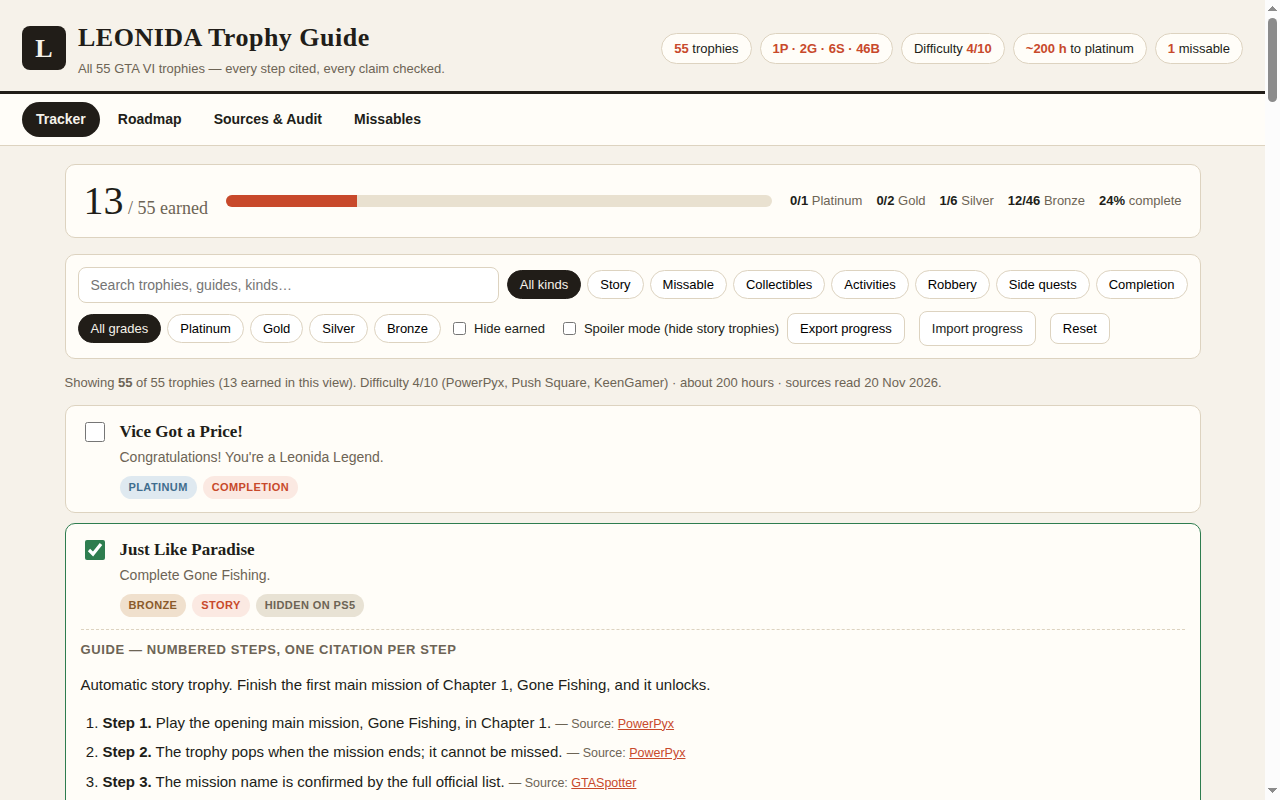
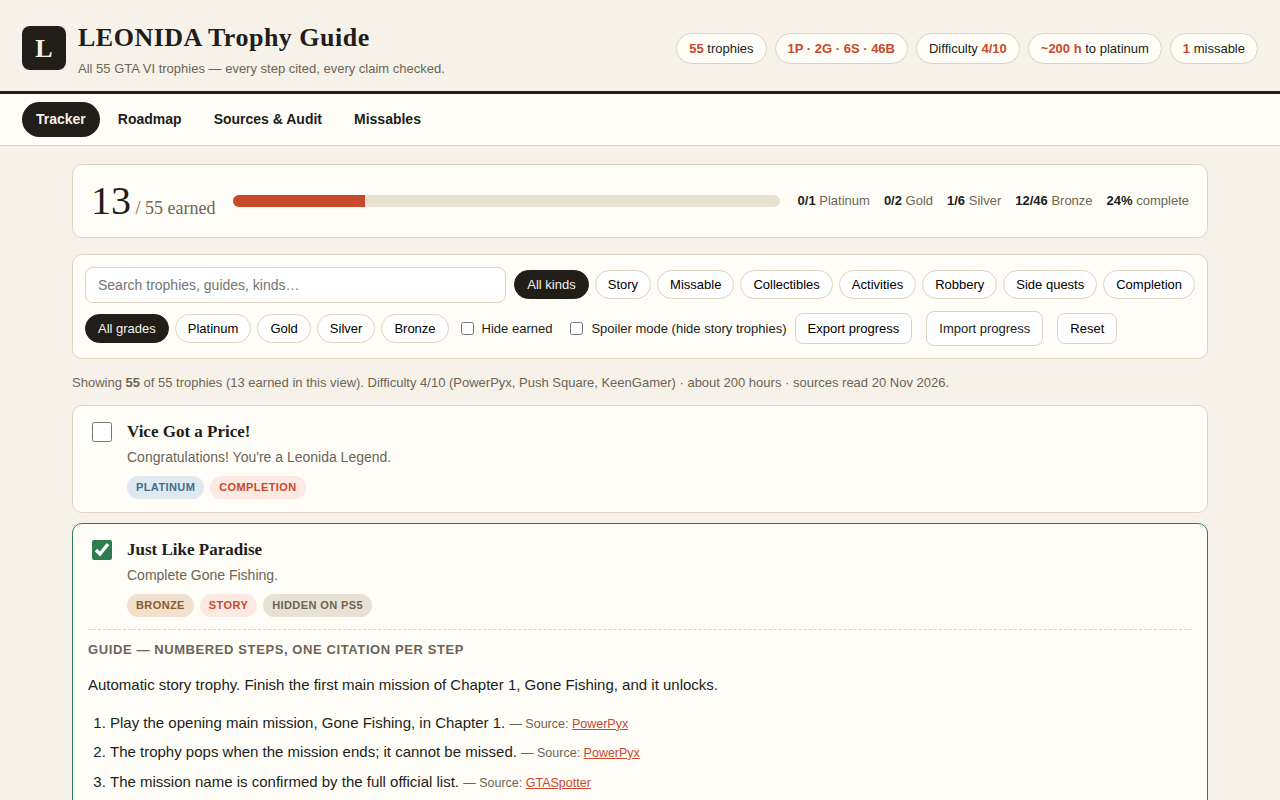
v2 polish: drop redundant Step N. prefix from numbered guide steps

diff --git a/app/js/views.js b/app/js/views.js
@@ -40,7 +40,7 @@ function stepsHtml(trophy, meta) {
   const items = trophy.steps
     .map(
       (step, i) =>
-        "<li><b>Step " + (i + 1) + ".</b> " + escapeHtml(step.text) +
+        "<li>" + escapeHtml(step.text) +
         ' <span class="cite">— Source: ' + sourceLink(meta, step.source) + "</span></li>"
     )
     .join("");
